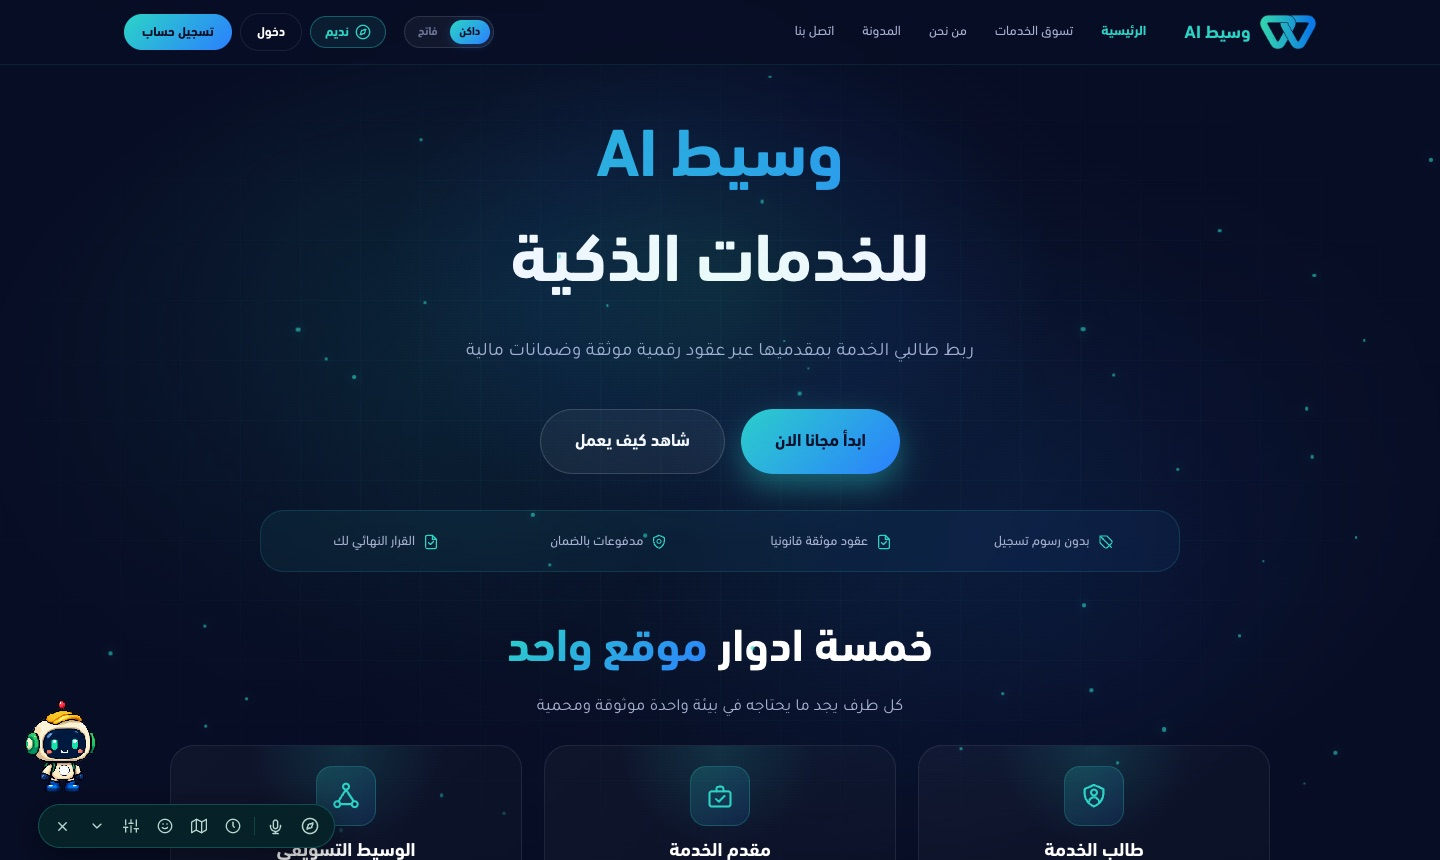
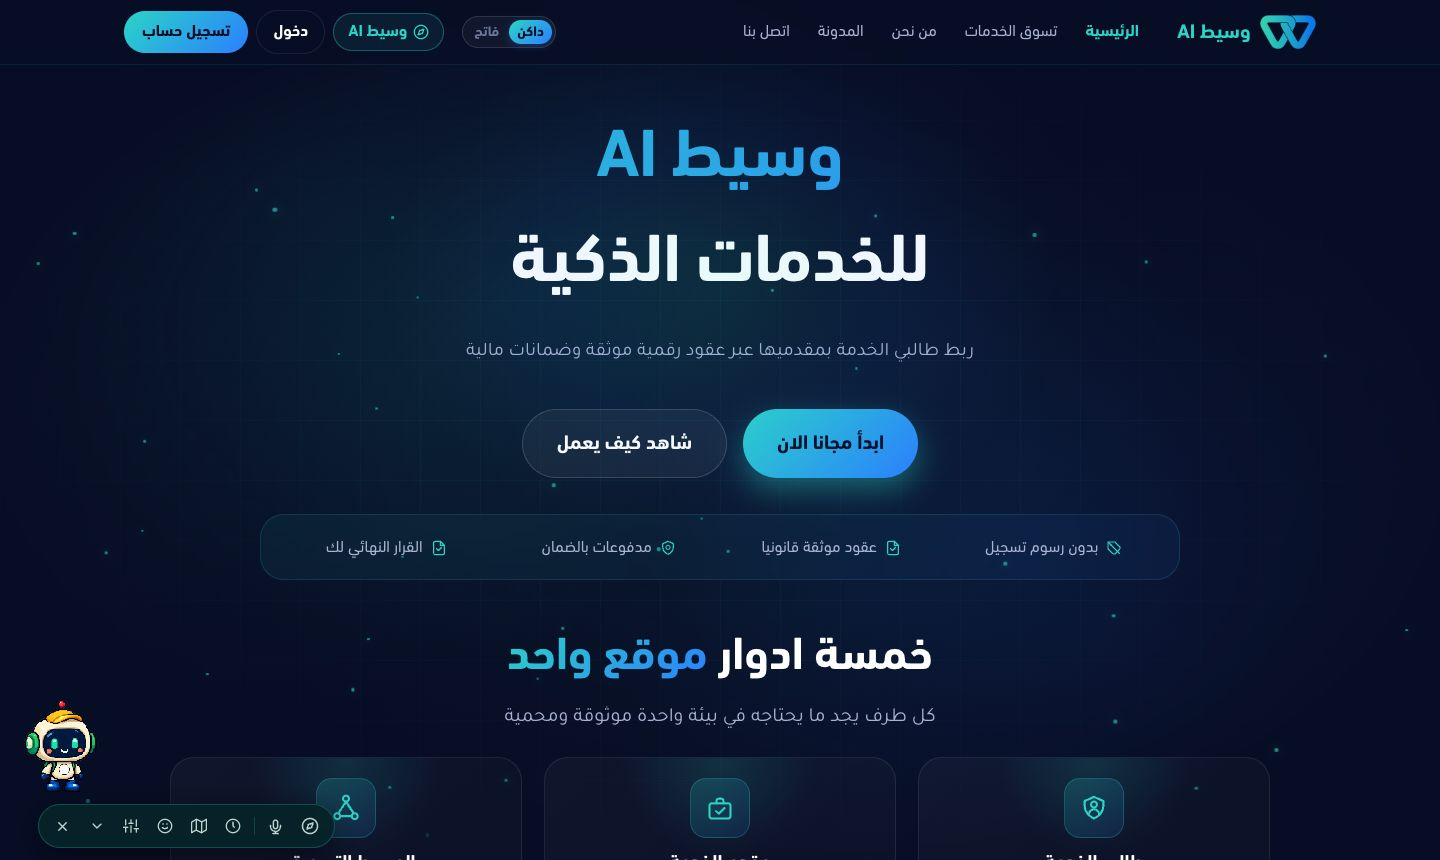
docs: refresh README screenshots and behaviour notes (assistant, freeze, background refresh)

diff --git a/README.md b/README.md
@@ -27,7 +27,7 @@ Waseet AI connects service clients with providers through requests, offers, cont
 | Provider dashboard | Service providers | `/provider-overview` |
 | Marketer dashboard | Marketing brokers | `/marketer-overview` |
 | Admin dashboard | Super admins | `/supper-admin-overview` |
-| Assistant | Signed-in users | `/assistant` |
+| Assistant («وسيط AI») | Signed-in users | `/assistant` — the logo in its sidebar returns to the home page |
 
 The UI is Arabic-first (RTL) with a dark/light theme switch.
 
@@ -41,7 +41,7 @@ The UI is Arabic-first (RTL) with a dark/light theme switch.
   </tr>
 </table>
 
-<sub>Screenshots: public home page from a local run (`npm run start:local`, no backend, no user data).</sub>
+<sub>Screenshots: public home page from a local run (`npm run start:local`, no backend, no user data), refreshed 2026-11-15.</sub>
 
 ## Tech stack
 
@@ -121,6 +121,8 @@ public/                  Static assets (brand mark, fonts, images)
 
 - Public pages work without a session; private actions check authentication when triggered, and a `401` on an authenticated request clears the session.
 - Dashboards are role-guarded; protected pages need a backend account with the matching role.
+- While a dispute or a mutual-cancellation request is open, the client's approve / revision buttons (project timeline, milestones tab, delivery-review page) are disabled with the reason; the backend enforces the same freeze with `423`.
+- Background refreshes (the cancellation tile every 30 s, the identity-review poll, backup-job polling) send `SKIP_LOADING` so they never raise the full-page loader; only user-initiated loads do.
 - Do not touch window/`localStorage` outside browser-only code — the app is server-rendered and hydrated.
 
 ## Documentation
